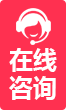
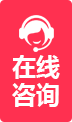
测试测试
啊飒飒的

Changed region(s): [[0.1212, 0.0545, 0.8788, 0.9273]]

diff --git a/css/index.css b/css/index.css
@@ -4,6 +4,7 @@ li{ list-style:none; }
 a{ text-decoration:none; }
 img{ vertical-align:top; }
 input{outline: none}
+input[type="button"], input[type="submit"], input[type="reset"] {-webkit-appearance: none;}
 header{
 	width: 18.0rem;
 	height: 1.25rem;
@@ -332,7 +333,8 @@ header p{
     height:65.5rem;
     overflow: hidden;
     background: url("../images/main3.jpg") no-repeat center;
-    background-size: 18.0rem 65.5rem
+    background-size: 18.0rem 65.5rem;
+    margin-top: 0.5rem
 }
 .main-tt{
     font-size:0.9rem;
@@ -605,6 +607,7 @@ header p{
     overflow: hidden;
     background: url("../images/main5.jpg") no-repeat center;
     background-size: 18.0rem 34.15rem;
+     margin-top: 0.5rem;
 }
 .main-tt4{
     width: 9.4rem;
@@ -1015,11 +1018,11 @@ header p{
     color: #fff
 }
 .fix1{
-    background: url(../images/fix1.png) no-repeat 10% center #000;
+    background: url(../images/fix1.png) no-repeat 15% center #000;
     background-size: 1.15rem 1.125rem
 }
 .fix2{
-    background: url(../images/fix2.png) no-repeat 10% center #e62929;
+    background: url(../images/fix2.png) no-repeat 15% center #e62929;
     background-size: 1.525rem 1.2rem
 }
 .zixun{
@@ -1032,5 +1035,5 @@ header p{
     display: block;
 }
 .zixun a img{
-    width: 1.65rem;
+    width: 1.85rem;
 }

diff --git a/css/index_max.css b/css/index_max.css
@@ -324,6 +324,7 @@ header p{
     height:2620px;
     overflow: hidden;
     background: url("../images/main3.jpg") no-repeat center;
+    margin-top: 20px;
 }
 .main-tt{
     font-size:36px;
@@ -586,6 +587,7 @@ header p{
     height:1366px;
     overflow: hidden;
     background: url("../images/main5.jpg") no-repeat center;
+    margin-top: 20px;
 }
 .main-tt4{
     width: 376px;
@@ -606,15 +608,15 @@ header p{
 }
 .m5-cont li p{
     font-size:24px;
-    line-height:40px;
-    margin-top:50px;
+    line-height:38px;
+    margin-top:60px;
 }
 .m5-cont li a{
     display: block;
     width: 317px;
     height: 60px;
     line-height:58px;
-    margin: 10px auto;
+    margin: 8px auto;
     font-size:24px;
     color: #333;
 }
@@ -966,10 +968,10 @@ header p{
     color: #fff
 }
 .fix1{
-    background: url(../images/fix1.png) no-repeat 10% center #000;
+    background: url(../images/fix1.png) no-repeat 15% center #000;
 }
 .fix2{
-    background: url(../images/fix2.png) no-repeat 10% center #e62929;
+    background: url(../images/fix2.png) no-repeat 15% center #e62929;
 }
 .zixun{
     position: fixed;
